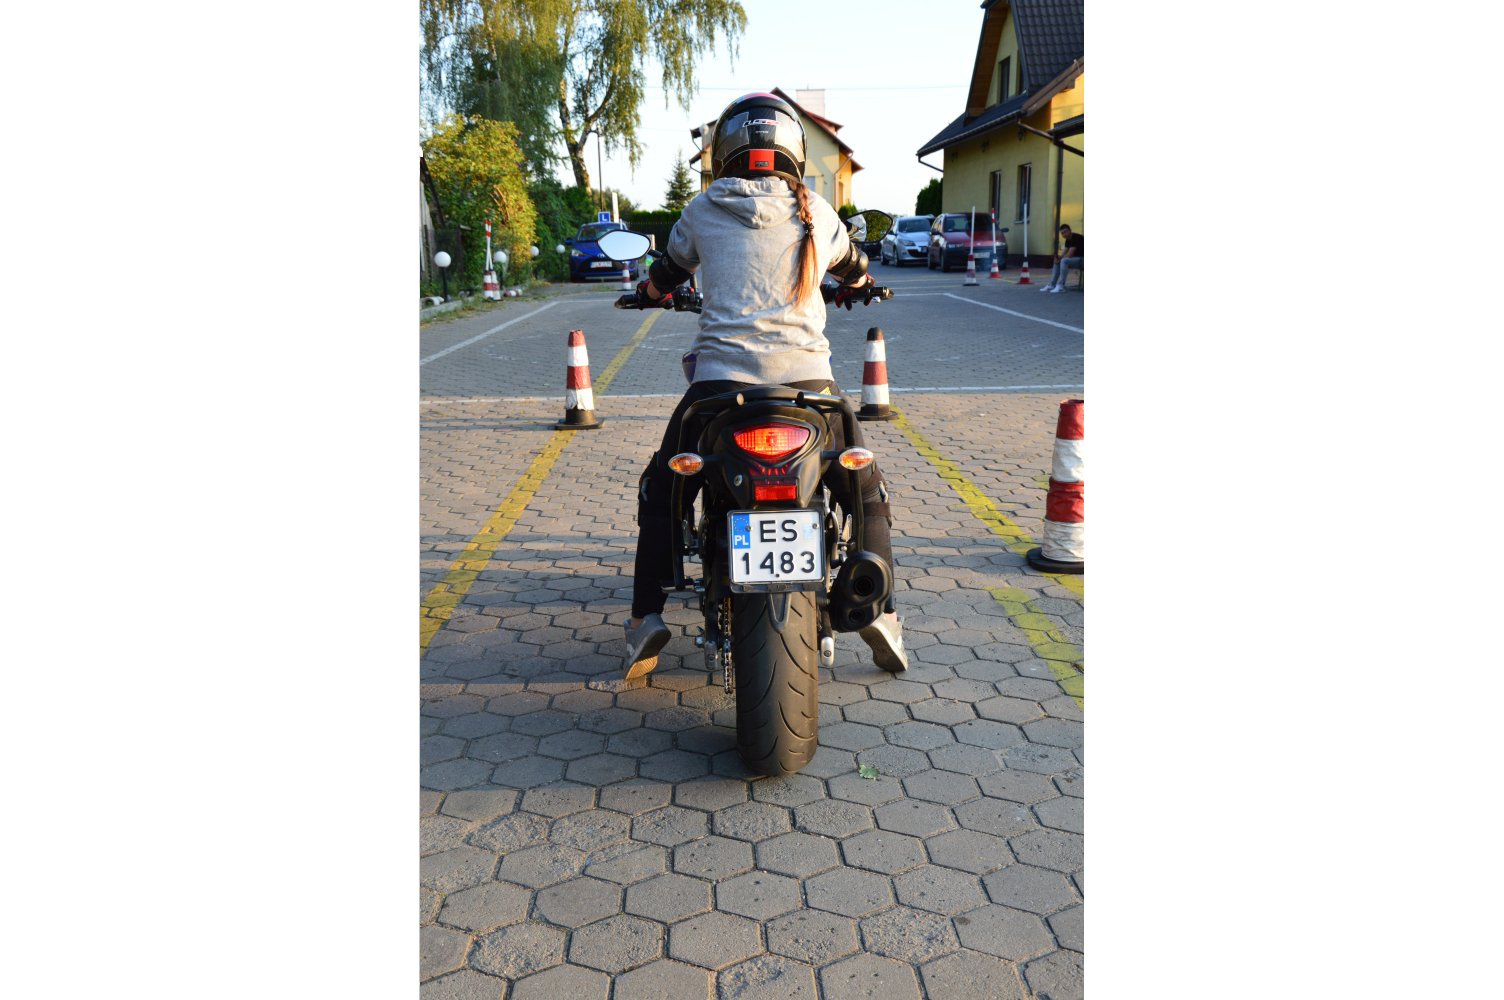
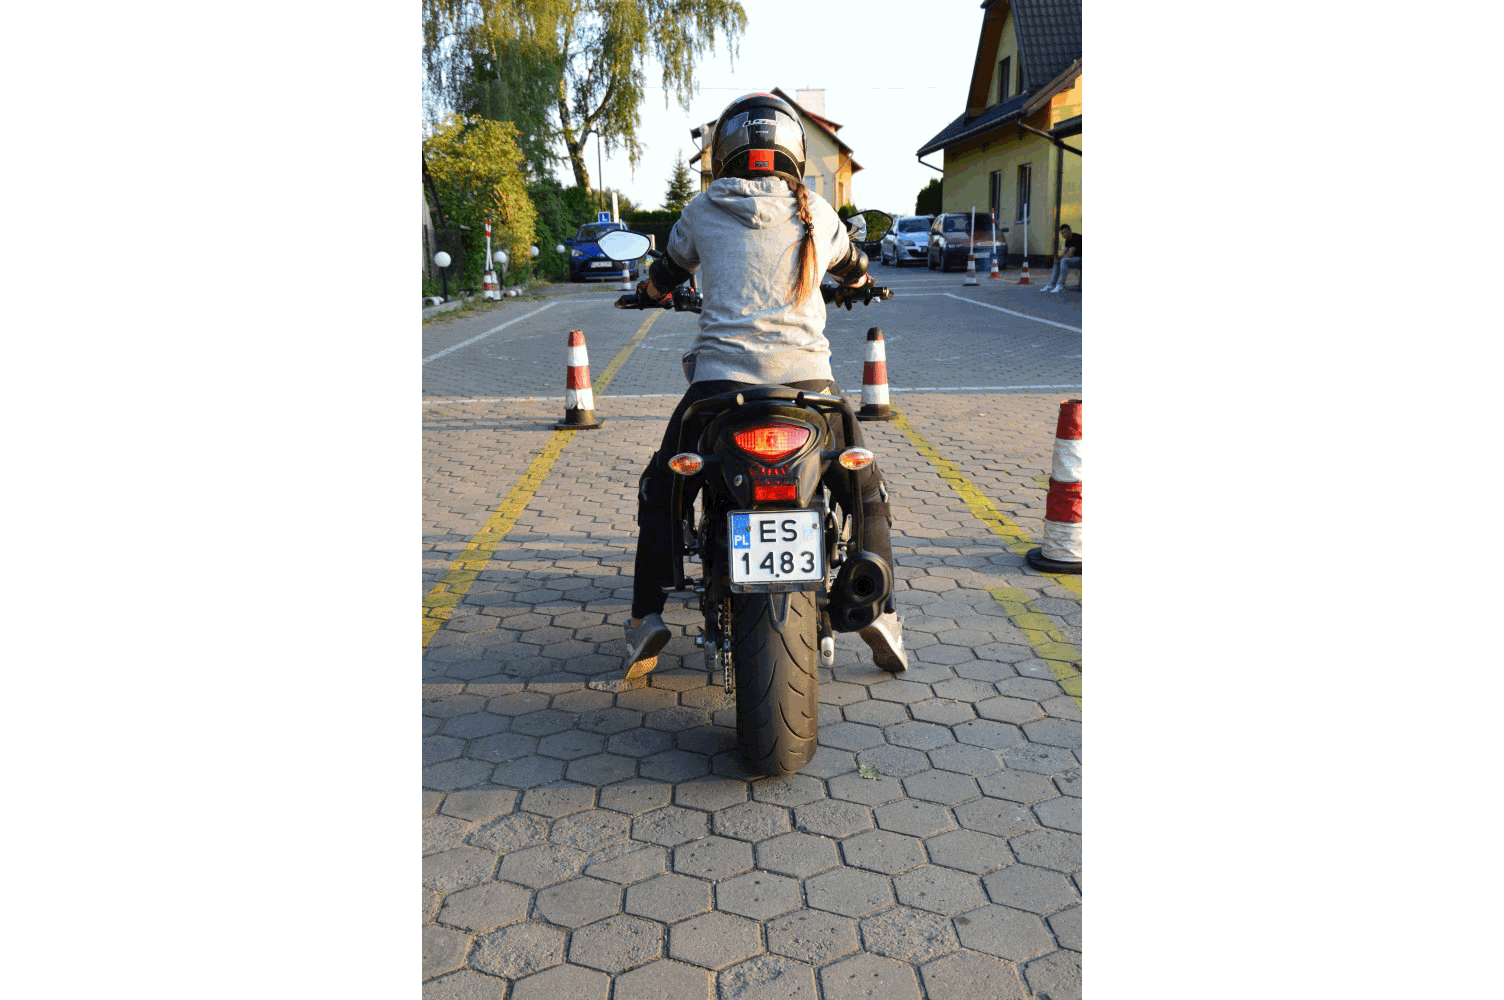
SEO optimalized images

Changed region(s): [[0.625, 0.217, 0.6562, 0.248], [0.4688, 0.527, 0.5, 0.558]]

diff --git a/main.min.css b/main.min.css
@@ -1,1 +1,1 @@
-.fblink,.offering,.top-bar{text-align:center}.calendar,.fbfont,.marked,.offering,.question,.top-bar{font-weight:700}.dane,.foot_nav{list-style-type:none}body{position:relative;font-family:Ubuntu}.about h2,.oferta h2{font-family:Oswald;width:100%}@font-face{font-family:Ubuntu;src:url(webfonts/Ubuntu-Regular.ttf)}@font-face{font-family:Roboto;src:url(webfonts/Roboto-Regular.ttf)}@font-face{font-family:Klavika;src:url('webfonts/Klavika Regular Plain.otf')}@font-face{font-family:Oswald;src:url(webfonts/Oswald-Regular.ttf)}@font-face{font-family:Palanquin;src:url(webfonts/palanquin-regular.ttf)}a,a:focus,a:hover{text-decoration:none}.calendar,.small{text-decoration:underline}.wrapper{padding:0!important;margin:0!important}.bg-dark{background-color:#161f28!important}.navbar-brand{padding:10px 2px 10px 0}.navbar-brand img{max-height:30px}@media (max-width:768px){#mainNav{padding-left:4px;padding-right:4px}}.calendar{border-left:1px solid rgba(255,255,255,.5)}@media (max-width:992px){.calendar{border:none}.nav-item{text-align:center}}.landing-page{background:url(imgs/landing-background.png);background-size:cover;width:100%;height:100vh}.top-bar{position:absolute;top:0;left:0;right:0;font-size:17px;color:#fff;text-shadow:0 0 12px #333;padding:10px;border-bottom:1px solid rgb(94, 94, 94);margin:0 15px}.about h2,.contact h2,.faq h2,.oferta h2{margin-bottom:50px}.main-landing{height:100%;display:flex;flex-direction:column;justify-content:space-around;align-items:center}.main-landing img{margin-top:150px}.main-landing a{color:#fff;font-size:70px;transition:all .7s ease;cursor:pointer;animation:button_land 1s infinite ease-in-out}.main-landing a:hover{color:#3493f3}.main-landing a:focus{outline:0}@keyframes button_land{0%,100%{transform:scale(1)}50%{transform:scale(1.2)}}.about{margin-top:50px}.cal,.contact,.faq,.footer,.gallery,.oferta{margin-top:100px}.about h2{font-size:50px;color:#161f28}.about-description{max-width:700px;font-size:28px;text-align:center;color:rgba(0,0,0,.7);padding:0 15px}@media (max-width:768px){.about-description{font-size:24px}}.marked{color:#3c5670}.oferta h2{font-size:50px;color:#161f28}.innerd{z-index:9999}.offering{text-shadow:1px 0 0 #000,-1px 0 0 #000,0 1px 0 #000,0 -1px 0 #000,1px 1px #000,-1px -1px 0 #000,1px -1px 0 #000,-1px 1px 0 #000;font-family:Exo,sans-serif;display:flex;justify-content:center;align-items:center;color:#fff;font-size:26px;padding:0;height:200px;cursor:pointer;transition:all .4s ease-in-out;z-index:3;position:relative}.bonus,.contact h2,.faq h2{font-family:Oswald}#map,.offering::after{height:100%;width:100%}.offering::after{content:'';position:absolute;left:0;right:0;background:rgba(52,147,243,.3)}.eight,.five,.four,.nine,.one,.seven,.six,.three,.two{background-position:center;background-size:cover}.offering:hover{transform:scale(1.2);box-shadow:2px 2px 7px rgba(48,48,48,.308);z-index:7}.one{background-image:url(imgs/oferta/katam.jpg)}.two{background-image:url(imgs/oferta/kata1.jpg)}.three{background-image:url(imgs/oferta/kata2.jpg)}@media (max-width:992px){.offering:hover{transform:scale(1.05)}.three{font-size:22px}}@media (max-width:576px){.three{font-size:26px}.padoff{padding:0 15px}}.four{background-image:url(imgs/oferta/katb.jpg)}.five{background-image:url(imgs/oferta/katbe.jpg)}.six{background-image:url(imgs/oferta/katc.jpg)}.seven{background-image:url(imgs/oferta/katce.jpg)}.eight{background-image:url(imgs/oferta/katd.jpg)}.nine{background-image:url(imgs/oferta/katt.jpg)}.small{font-size:18px}.bonus{width:100%;font-size:26px}.gallery{background:url(imgs/galeriabg.png) center center fixed}.gallery .container{padding:0!important}.faq{font-size:24px}.faq h2{font-size:50px;color:#161f28;width:100%}.question{color:#3493f3}.answer{font-size:20px;margin-left:5px}.hr-faq{border:1px solid #eee}.qa{width:100%}.contact h2{font-size:50px;color:#161f28;width:100%}#map_wrapper{height:450px;-webkit-box-shadow:0 0 20px 0 #999;-moz-box-shadow:0 0 20px 0 #999;box-shadow:0 0 20px 0 #999}.dane{padding:0;color:rgba(0,0,0,.7)}.dane li{font-size:28px;padding:5px 0}.dane li i{margin-right:8px;color:#3493f3}@media (max-width:992px){.dane li{text-align:center;font-size:22px}}.footer{background:url(imgs/galeriabg.png)}.fblink{width:100%;display:block;font-size:24px;padding:25px 0;color:#fff!important;transition:all .6s ease;box-sizing:border-box}.fblink:hover{background-color:#3B5998}.fbfont{font-family:Klavika}.foot_nav{padding:0}.foot_nav>li>a{color:rgba(255,255,255,.5);transition:all .3s ease;font-family:Roboto;text-transform:uppercase}.foot_nav>li>a:hover{color:#fff;border-bottom:1px solid #fff}.design{color:rgba(255,255,255,.5);font-family:Roboto;text-align:right}@media (max-width:768px){.design,.foot_nav li{text-align:center}}.footer-padding{padding:50px 0}.cal{font-family:Oswald;min-height:calc(100vh - 100px)}.cal h2{margin-bottom:20px}.calendar_{display:flex;justify-content:center;padding-bottom:50px}.calendar_ iframe{max-height:100vh;box-shadow:0 0 10px #aaa}
+.fblink,.offering,.top-bar{text-align:center}.calendar,.fbfont,.marked,.offering,.question,.top-bar{font-weight:700}.dane,.foot_nav{list-style-type:none}body{position:relative;font-family:Ubuntu}.about h2,.oferta h2{font-family:Oswald;width:100%}@font-face{font-family:Ubuntu;src:url(webfonts/Ubuntu-Regular.ttf)}@font-face{font-family:Roboto;src:url(webfonts/Roboto-Regular.ttf)}@font-face{font-family:Klavika;src:url('webfonts/Klavika Regular Plain.otf')}@font-face{font-family:Oswald;src:url(webfonts/Oswald-Regular.ttf)}@font-face{font-family:Palanquin;src:url(webfonts/palanquin-regular.ttf)}a,a:focus,a:hover{text-decoration:none}.calendar,.small{text-decoration:underline}.wrapper{padding:0!important;margin:0!important}.bg-dark{background-color:#161f28!important}.navbar-brand{padding:10px 2px 10px 0}.navbar-brand img{max-height:30px}@media (max-width:768px){#mainNav{padding-left:4px;padding-right:4px}}.calendar{border-left:1px solid rgba(255,255,255,.5)}@media (max-width:992px){.calendar{border:none}.nav-item{text-align:center}}.landing-page{background:url(imgs/landing-background.jpg);background-size:cover;width:100%;height:100vh}.top-bar{position:absolute;top:0;left:0;right:0;font-size:17px;color:#fff;text-shadow:0 0 12px #333;padding:10px;border-bottom:1px solid rgb(94, 94, 94);margin:0 15px}.about h2,.contact h2,.faq h2,.oferta h2{margin-bottom:50px}.main-landing{height:100%;display:flex;flex-direction:column;justify-content:space-around;align-items:center}.main-landing img{margin-top:150px}.main-landing a{color:#fff;font-size:70px;transition:all .7s ease;cursor:pointer;animation:button_land 1s infinite ease-in-out}.main-landing a:hover{color:#3493f3}.main-landing a:focus{outline:0}@keyframes button_land{0%,100%{transform:scale(1)}50%{transform:scale(1.2)}}.about{margin-top:50px}.cal,.contact,.faq,.footer,.gallery,.oferta{margin-top:100px}.about h2{font-size:50px;color:#161f28}.about-description{max-width:700px;font-size:28px;text-align:center;color:rgba(0,0,0,.7);padding:0 15px}@media (max-width:768px){.about-description{font-size:24px}}.marked{color:#3c5670}.oferta h2{font-size:50px;color:#161f28}.innerd{z-index:9999}.offering{text-shadow:1px 0 0 #000,-1px 0 0 #000,0 1px 0 #000,0 -1px 0 #000,1px 1px #000,-1px -1px 0 #000,1px -1px 0 #000,-1px 1px 0 #000;font-family:Exo,sans-serif;display:flex;justify-content:center;align-items:center;color:#fff;font-size:26px;padding:0;height:200px;cursor:pointer;transition:all .4s ease-in-out;z-index:3;position:relative}.bonus,.contact h2,.faq h2{font-family:Oswald}#map,.offering::after{height:100%;width:100%}.offering::after{content:'';position:absolute;left:0;right:0;background:rgba(52,147,243,.3)}.eight,.five,.four,.nine,.one,.seven,.six,.three,.two{background-position:center;background-size:cover}.offering:hover{transform:scale(1.2);box-shadow:2px 2px 7px rgba(48,48,48,.308);z-index:7}.one{background-image:url(imgs/oferta/katam.jpg)}.two{background-image:url(imgs/oferta/kata1.jpg)}.three{background-image:url(imgs/oferta/kata2.jpg)}@media (max-width:992px){.offering:hover{transform:scale(1.05)}.three{font-size:22px}}@media (max-width:576px){.three{font-size:26px}.padoff{padding:0 15px}}.four{background-image:url(imgs/oferta/katb.jpg)}.five{background-image:url(imgs/oferta/katbe.jpg)}.six{background-image:url(imgs/oferta/katc.jpg)}.seven{background-image:url(imgs/oferta/katce.jpg)}.eight{background-image:url(imgs/oferta/katd.jpg)}.nine{background-image:url(imgs/oferta/katt.jpg)}.small{font-size:18px}.bonus{width:100%;font-size:26px}.gallery{background:url(imgs/galeriabg.png) center center fixed}.gallery .container{padding:0!important}.faq{font-size:24px}.faq h2{font-size:50px;color:#161f28;width:100%}.question{color:#3493f3}.answer{font-size:20px;margin-left:5px}.hr-faq{border:1px solid #eee}.qa{width:100%}.contact h2{font-size:50px;color:#161f28;width:100%}#map_wrapper{height:450px;-webkit-box-shadow:0 0 20px 0 #999;-moz-box-shadow:0 0 20px 0 #999;box-shadow:0 0 20px 0 #999}.dane{padding:0;color:rgba(0,0,0,.7)}.dane li{font-size:28px;padding:5px 0}.dane li i{margin-right:8px;color:#3493f3}@media (max-width:992px){.dane li{text-align:center;font-size:22px}}.footer{background:url(imgs/galeriabg.png)}.fblink{width:100%;display:block;font-size:24px;padding:25px 0;color:#fff!important;transition:all .6s ease;box-sizing:border-box}.fblink:hover{background-color:#3B5998}.fbfont{font-family:Klavika}.foot_nav{padding:0}.foot_nav>li>a{color:rgba(255,255,255,.5);transition:all .3s ease;font-family:Roboto;text-transform:uppercase}.foot_nav>li>a:hover{color:#fff;border-bottom:1px solid #fff}.design{color:rgba(255,255,255,.5);font-family:Roboto;text-align:right}@media (max-width:768px){.design,.foot_nav li{text-align:center}}.footer-padding{padding:50px 0}.cal{font-family:Oswald;min-height:calc(100vh - 100px)}.cal h2{margin-bottom:20px}.calendar_{display:flex;justify-content:center;padding-bottom:50px}.calendar_ iframe{max-height:100vh;box-shadow:0 0 10px #aaa}

diff --git a/main.css b/main.css
@@ -59,7 +59,7 @@ a
 /* LANDING */
 
 .landing-page{
-  background: url('imgs/landing-background.png');
+  background: url('imgs/landing-background.jpg');
   background-size: cover;
   width: 100%;
   height: 100vh;
